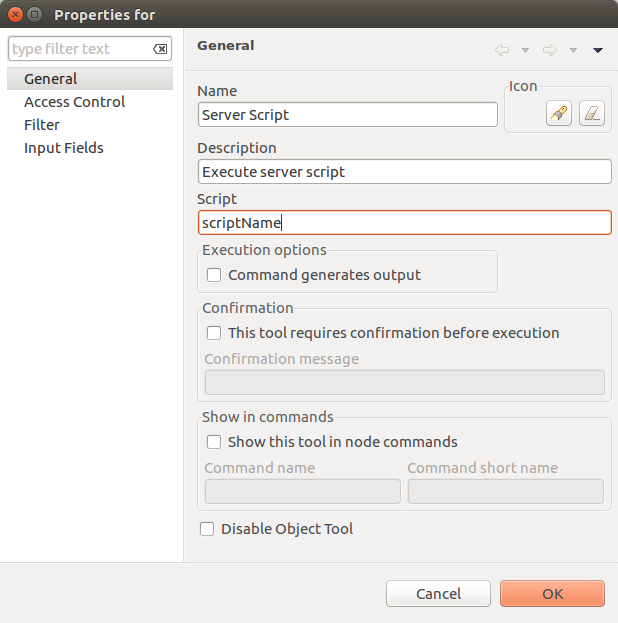
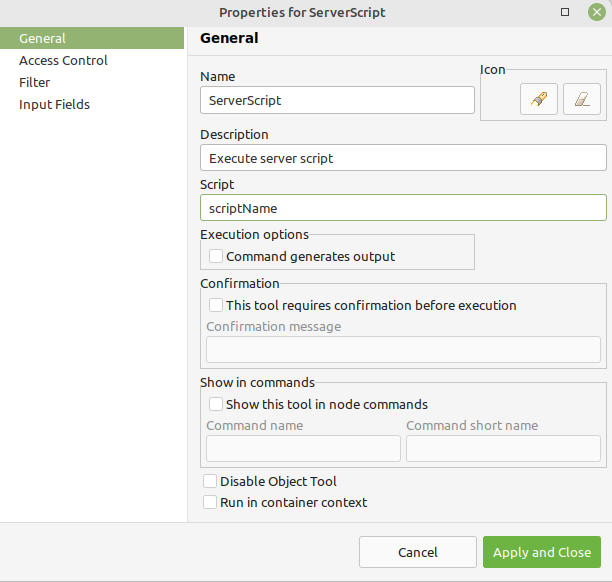
In Object Tools added description about new option to run object tool agains container

diff --git a/admin/object-management.rst b/admin/object-management.rst
@@ -793,6 +793,8 @@ URL
      - Is used when usual name is too long for display.
    * - Disable Object Tool
      - If chosen, tool is not shown in node menu.
+   * - Run in container context
+     - If this option is selected, then tool will run only for selected container, not affecting children nodes.
 
 
 Local Command
@@ -834,6 +836,8 @@ to execute command on web page receiver's machine.
      - Is used when usual name is too long for display.
    * - Disable Object Tool
      - If chosen, tool is not shown in node menu.
+   * - Run in container context
+     - If this option is selected, then tool will run only for selected container, not affecting children nodes.
 
 Server Command
 ~~~~~~~~~~~~~~
@@ -869,6 +873,8 @@ Server Command
      - Is used when usual name is too long for display.
    * - Disable Object Tool
      - If chosen, tool is not shown in node menu.
+   * - Run in container context
+     - If this option is selected, then tool will run only for selected container, not affecting children nodes.
 
 
 Download File
@@ -945,6 +951,8 @@ This tool provide full range of capabilities that are available thought NXSL scr
      - Is used when usual name is too long for display.
    * - Disable Object Tool
      - If chosen, tool is not shown in node menu.
+   * - Run in container context
+     - If this option is selected, then tool will run only for selected container, not affecting children nodes.
 
 
 
